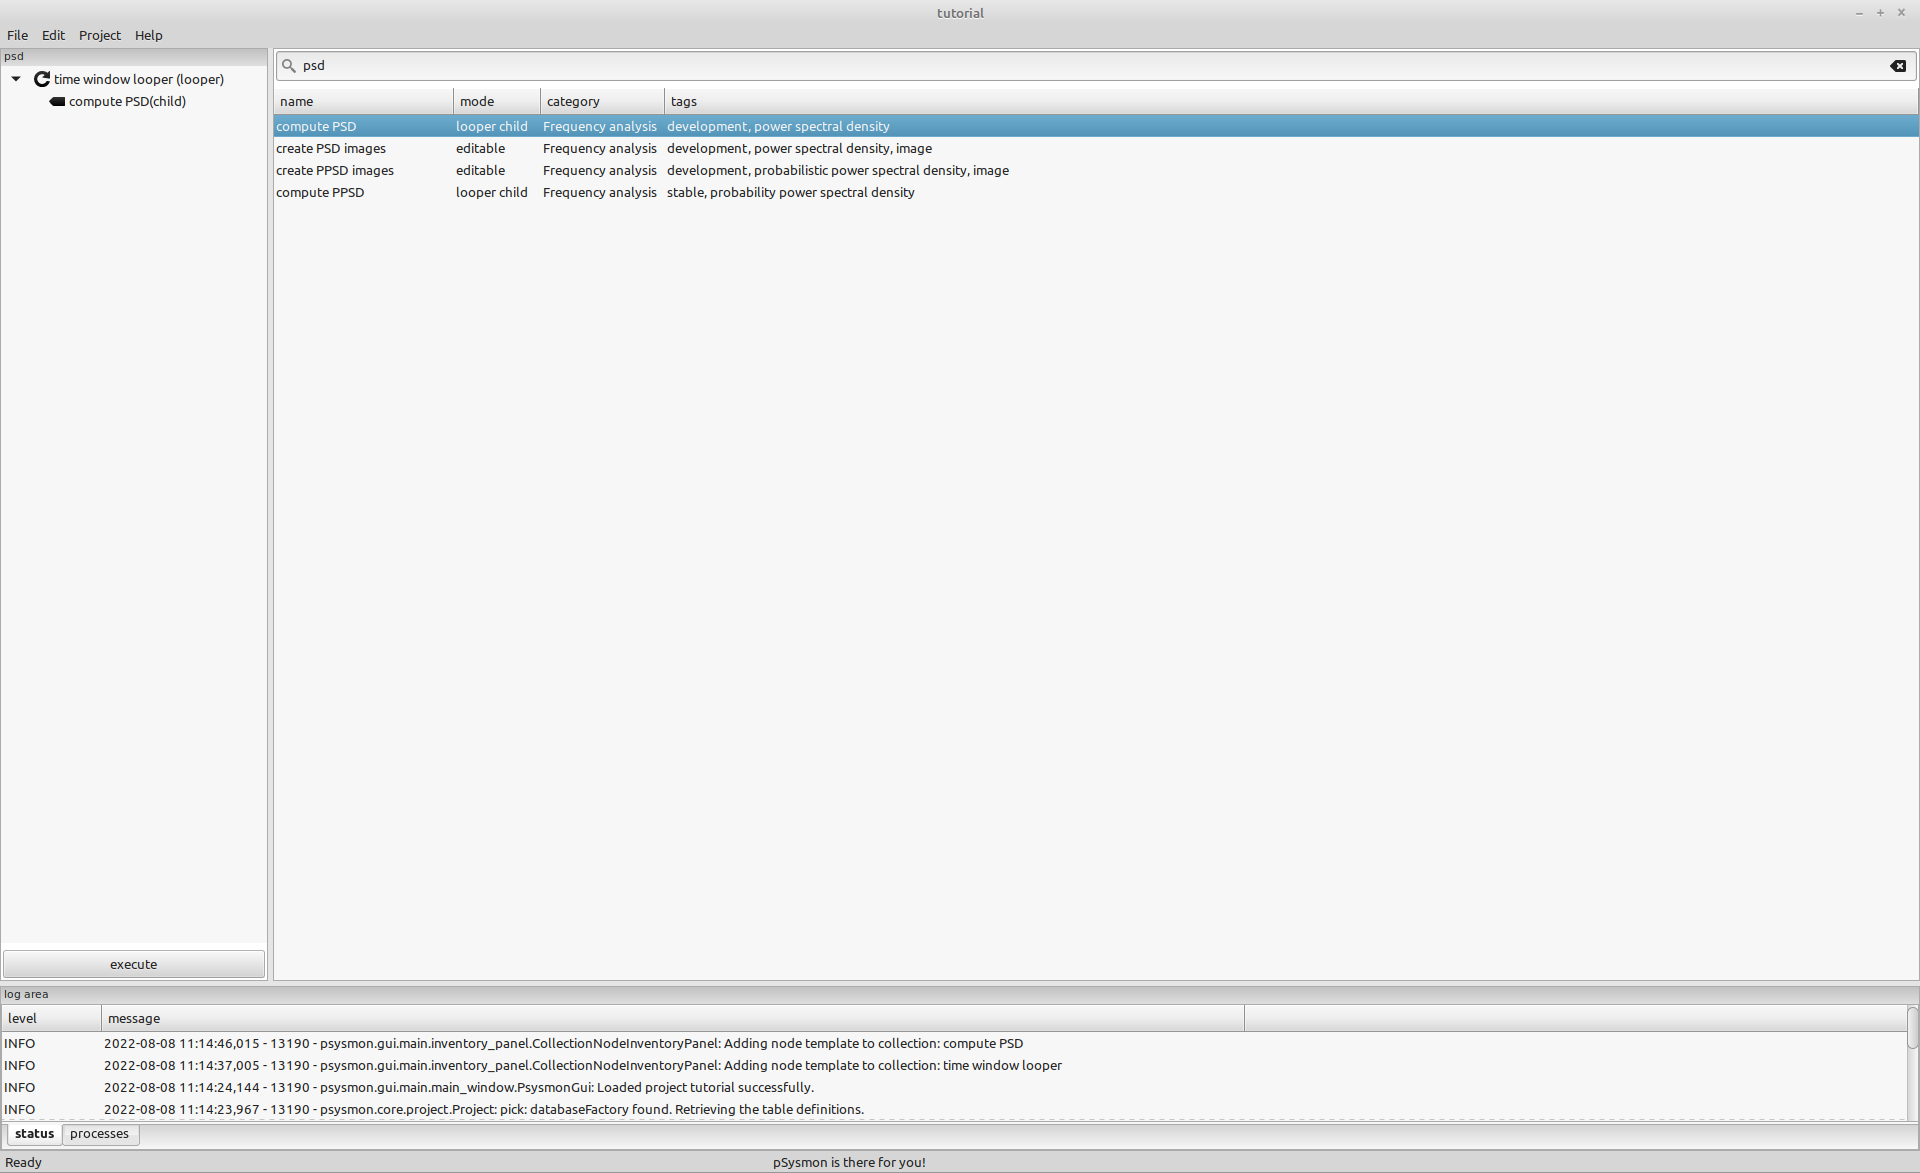
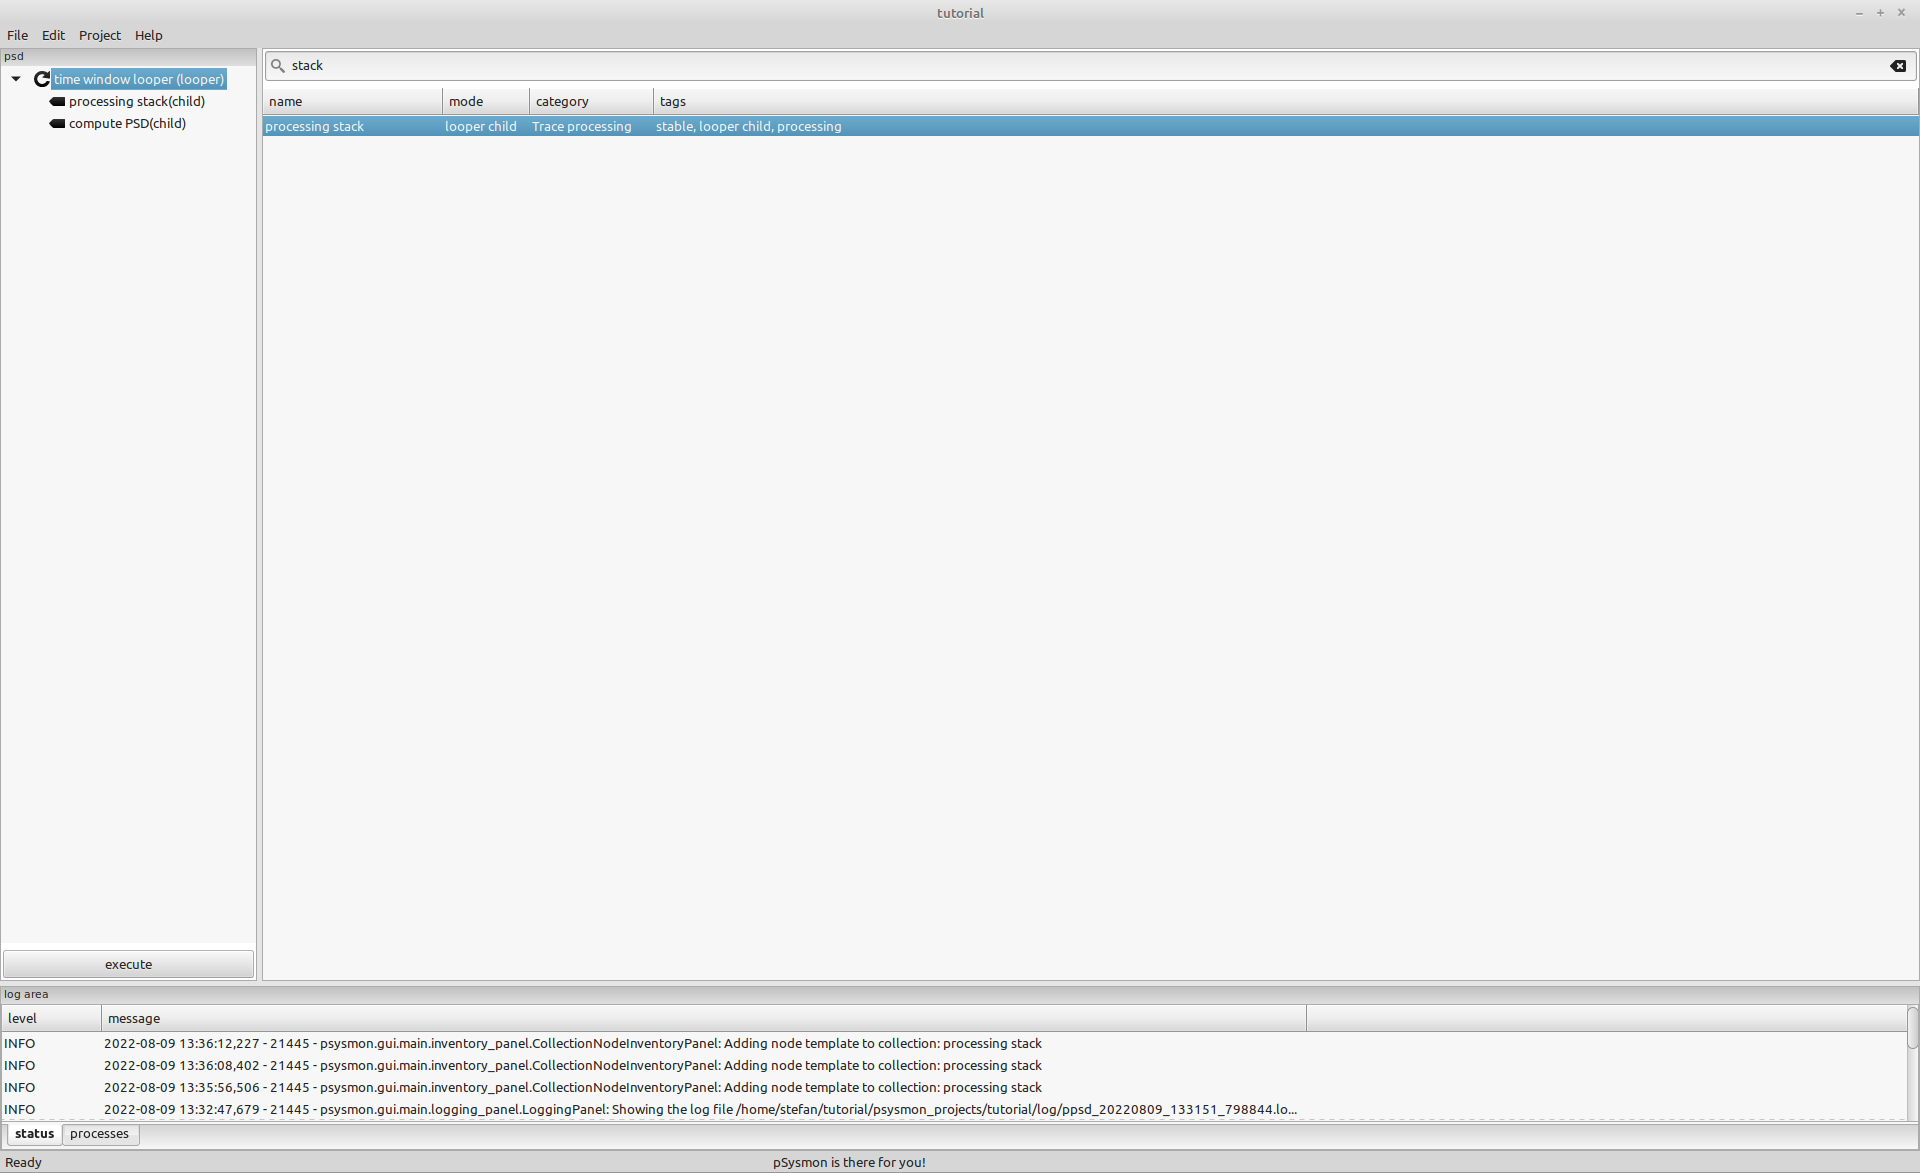
Added the conversion to sensor units.

diff --git a/en/_tutorial_sonnblick_events/08_psd_computation.md b/en/_tutorial_sonnblick_events/08_psd_computation.md
@@ -37,15 +37,27 @@ figures:
         filename: screenshot_open_child_preferences.png
         caption: Open the preferences dialog of the time window looper child node using the context menu.
         
+    select-processing-node:
+        label: fig:select-processing-node
+        number: 5
+        filename: screenshot_select_processing_stack_node.png
+        caption: Select the convert to sensor units processing node.
+        
+    ps-with-convert-node:
+        label: fig:ps-with-convert-node
+        number: 6
+        filename: screenshot_ps_convert_sensor_units_added.png
+        caption: The convert to sensor units processing node added to the processing stack.
+        
     compute-psd-preferences:
         label: fig:compute-psd-preferences
-        number: 5
+        number: 7
         filename: screenshot_compute_psd_preferences.png
         caption: Set the preferences of the compute PSD looper child node.
         
     check-log-file:
         label: fig:check-log-file
-        number: 6
+        number: 8
         filename: screenshot_check_log_file.png
         caption: Get the log filename from the currently running process in the log area.
         
@@ -71,7 +83,7 @@ stefan@hausmeister:~/tutorial/psysmon_output$
 
 
 ## Create the psd collection
-Create a collection named *psd* and add the collection node `time window looper` to the collection. Then select the `time window looper` node in the collection listbox and add the `compute PSD` collection node, which is a `looper child`. The `compute PSD` node will be added as a sub-node of the time window looper in the collection node listbox.
+Create a collection named *psd* and add the collection node `time window looper` to the collection. Then select the `time window looper` node in the collection listbox and add the `processing stack` and then the `compute PSD` looper collection node. Both of these nodes are `looper children` and will be added to the time window looper as sub-nodes.
 
 The time window looper splits the specified time range into time windows and for each time window, the child nodes of the looper are executed.
 
@@ -116,10 +128,30 @@ output directory
 
 Keep the default values of the `processing` panel.
 
+## Configure the processing stack child node
+Select the `processing stack` node in the sub-tree of the time window looper and open the preferences editor using the context menu.
+
+{% include insert_image.html key="open-child-preferences" %}
+
+The preferences dialog of the `processing stack` child node will open.
+
+The `processing stack` is the same as the one that we already encountered in the tracedisplay when screening the seismic data. Add the `convert to sensor units` processing node to the processing stack using the `add` button and selecting the node from the opening dialog.
+
+{% include insert_image.html key="select-processing-node" %}
+
+The processing node will be added to the processing stack in the preferences dialog.
+
+{% include insert_image.html key="ps-with-convert-node" %}
+
+The `convert to sensor units` will convert the counts of the digital seismogram to the sensor input unit of the sensor specified in the geometry file. For the sensors used in the tutorial data set these unit is velocity (m/s). The conversion is done using the preamplification and bitweight of the data recorder and the sensitivity of the sensor. The effects of the transfer function of the sensor are not removed.
+
+The conversion from counts to sensor units is important to relate the computed PSD data to the global noise models when creating the spectrogram images.
+
+
 ## Configure the compute PSD child node
 Select the `compute PSD` node in the collection node and open the preferences editor using the context menu.
 
-{% include insert_image.html key="open-child-preferences" %}
+
 
 The preferences dialog of the `compute PSD` child node will open. 
 
@@ -149,23 +181,35 @@ The collection will create a directory structure in the output directory of the 
 ## Tracking a process using the log file
 You can track an collection execution process using the Linux tail command. First, get the filename of the log file of the process that you want to check. It is built using the name of the process with the `.log` file suffix. In the screenshot given below, the running process has the name `psd_20220808_152407_255098`, so the related log file can be found in the directory `psysmon_projects/tutorial/log` of your tutorial directory structure. Use the `-f` flag of the tail command to follow the updates of the log file.
 
+{% include insert_image.html key="check-log-file" %}
+
 ~~~console
-stefan@hausmeister:~/tutorial/psysmon_projects/tutorial/log$ tail -f psd_20220808_152407_255098.log 
-#LOG# - 2022-08-08 15:27:09,141 - INFO - psysmon.packages.frequency.compute_psd.ComputePsdNode: ###Processing trace with id XX.MIT.A.DPZ.
-#LOG# - 2022-08-08 15:27:09,158 - INFO - psysmon.packages.core_looper.time_window_looper.SlidingWindowProcessor: Processing sliding window 1311/1536.
-#LOG# - 2022-08-08 15:27:09,159 - INFO - psysmon.packages.core_looper.time_window_looper.SlidingWindowProcessor: Initial stream request for time-span: 2018-10-31T19:45:00 to 2018-10-31T20:00:00 for scnl: [('MIT', 'DPZ', 'XX', 'A'), ('MOR', 'DPZ', 'XX', 'A')].
-#LOG# - 2022-08-08 15:27:09,177 - INFO - psysmon.packages.frequency.compute_psd.ComputePsdNode: ###Processing trace with id XX.MIT.A.DPZ.
-#LOG# - 2022-08-08 15:27:09,194 - INFO - psysmon.packages.core_looper.time_window_looper.SlidingWindowProcessor: Processing sliding window 1312/1536.
-#LOG# - 2022-08-08 15:27:09,194 - INFO - psysmon.packages.core_looper.time_window_looper.SlidingWindowProcessor: Initial stream request for time-span: 2018-10-31T19:52:30 to 2018-10-31T20:07:30 for scnl: [('MIT', 'DPZ', 'XX', 'A'), ('MOR', 'DPZ', 'XX', 'A')].
-#LOG# - 2022-08-08 15:27:09,486 - INFO - psysmon.packages.frequency.compute_psd.ComputePsdNode: ###Processing trace with id XX.MIT.A.DPZ.
+stefan@hausmeister:~/tutorial/psysmon_projects/tutorial/log$ tail -f psd_20220809_134207_310452.log 
+#LOG# - 2022-08-09 13:44:44,457 - INFO - psysmon.packages.core_looper.time_window_looper.SlidingWindowProcessor: Processing sliding window 1117/1536.
+#LOG# - 2022-08-09 13:44:44,458 - INFO - psysmon.packages.core_looper.time_window_looper.SlidingWindowProcessor: Initial stream request for time-span: 2018-10-30T19:30:00 to 2018-10-30T19:45:00 for scnl: [('MIT', 'DPZ', 'XX', 'A'), ('MOR', 'DPZ', 'XX', 'A')].
+#LOG# - 2022-08-09 13:44:44,487 - INFO - psysmon.packages.frequency.compute_psd.ComputePsdNode: ###Processing trace with id XX.MIT.A.DPZ.
+#LOG# - 2022-08-09 13:44:44,505 - INFO - psysmon.packages.frequency.compute_psd.ComputePsdNode: ###Processing trace with id XX.MOR.A.DPZ.
+#LOG# - 2022-08-09 13:44:44,523 - INFO - psysmon.packages.core_looper.time_window_looper.SlidingWindowProcessor: Processing sliding window 1118/1536.
+#LOG# - 2022-08-09 13:44:44,523 - INFO - psysmon.packages.core_looper.time_window_looper.SlidingWindowProcessor: Initial stream request for time-span: 2018-10-30T19:37:30 to 2018-10-30T19:52:30 for scnl: [('MIT', 'DPZ', 'XX', 'A'), ('MOR', 'DPZ', 'XX', 'A')].
+#LOG# - 2022-08-09 13:44:44,551 - INFO - psysmon.packages.frequency.compute_psd.ComputePsdNode: ###Processing trace with id XX.MIT.A.DPZ.
+^C
+stefan@hausmeister:~/tutorial/psysmon_projects/tutorial/log$ 
 ~~~
 
 ## The PSD output data
 The psd collection will save the computation results in a directory structure within the output directory specified in the `time window looper` node. The data is saved in hourly files organized in daily directories for each selected component. These data files will be used as an input for the computation of the long-term spectrogram images.
 
 ~~~console
-stefan@hausmeister:~/tutorial/psysmon_output/psd_data/smi-mr.sm-psysmon-tutorial-psd_20220808_152407_255098-time_window_looper$ tree -L 1 psd/MIT/DPZ/
-psd/MIT/DPZ/
+stefan@hausmeister:~/tutorial/psysmon_output/psd_data/smi-mr.sm-psysmon-tutorial-psd_20220809_134207_310452-time_window_looper$ tree -L 2 psd
+psd
+├── MIT
+│   └── DPZ
+└── MOR
+    └── DPZ
+
+4 directories, 0 files
+stefan@hausmeister:~/tutorial/psysmon_output/psd_data/smi-mr.sm-psysmon-tutorial-psd_20220809_134207_310452-time_window_looper$ tree -L 1 psd/MIT/DPZ
+psd/MIT/DPZ
 ├── 2018_298
 ├── 2018_299
 ├── 2018_300
@@ -176,7 +220,7 @@ psd/MIT/DPZ/
 └── 2018_305
 
 8 directories, 0 files
-stefan@hausmeister:~/tutorial/psysmon_output/psd_data/smi-mr.sm-psysmon-tutorial-psd_20220808_152407_255098-time_window_looper$ tree -L 1 psd/MIT/DPZ/2018_298
+stefan@hausmeister:~/tutorial/psysmon_output/psd_data/smi-mr.sm-psysmon-tutorial-psd_20220809_134207_310452-time_window_looper$ tree -L 1 psd/MIT/DPZ/2018_298
 psd/MIT/DPZ/2018_298
 ├── psd_20181025T000000_20181025T005230_MIT_DPZ_XX_A.db
 ├── psd_20181025T010000_20181025T015230_MIT_DPZ_XX_A.db
@@ -204,7 +248,7 @@ psd/MIT/DPZ/2018_298
 └── psd_20181025T230000_20181025T235230_MIT_DPZ_XX_A.db
 
 0 directories, 24 files
-stefan@hausmeister:~/tutorial/psysmon_output/psd_data/smi-mr.sm-psysmon-tutorial-psd_20220808_152407_255098-time_window_looper$ 
+stefan@hausmeister:~/tutorial/psysmon_output/psd_data/smi-mr.sm-psysmon-tutorial-psd_20220809_134207_310452-time_window_looper$ 
 ~~~
 
 
